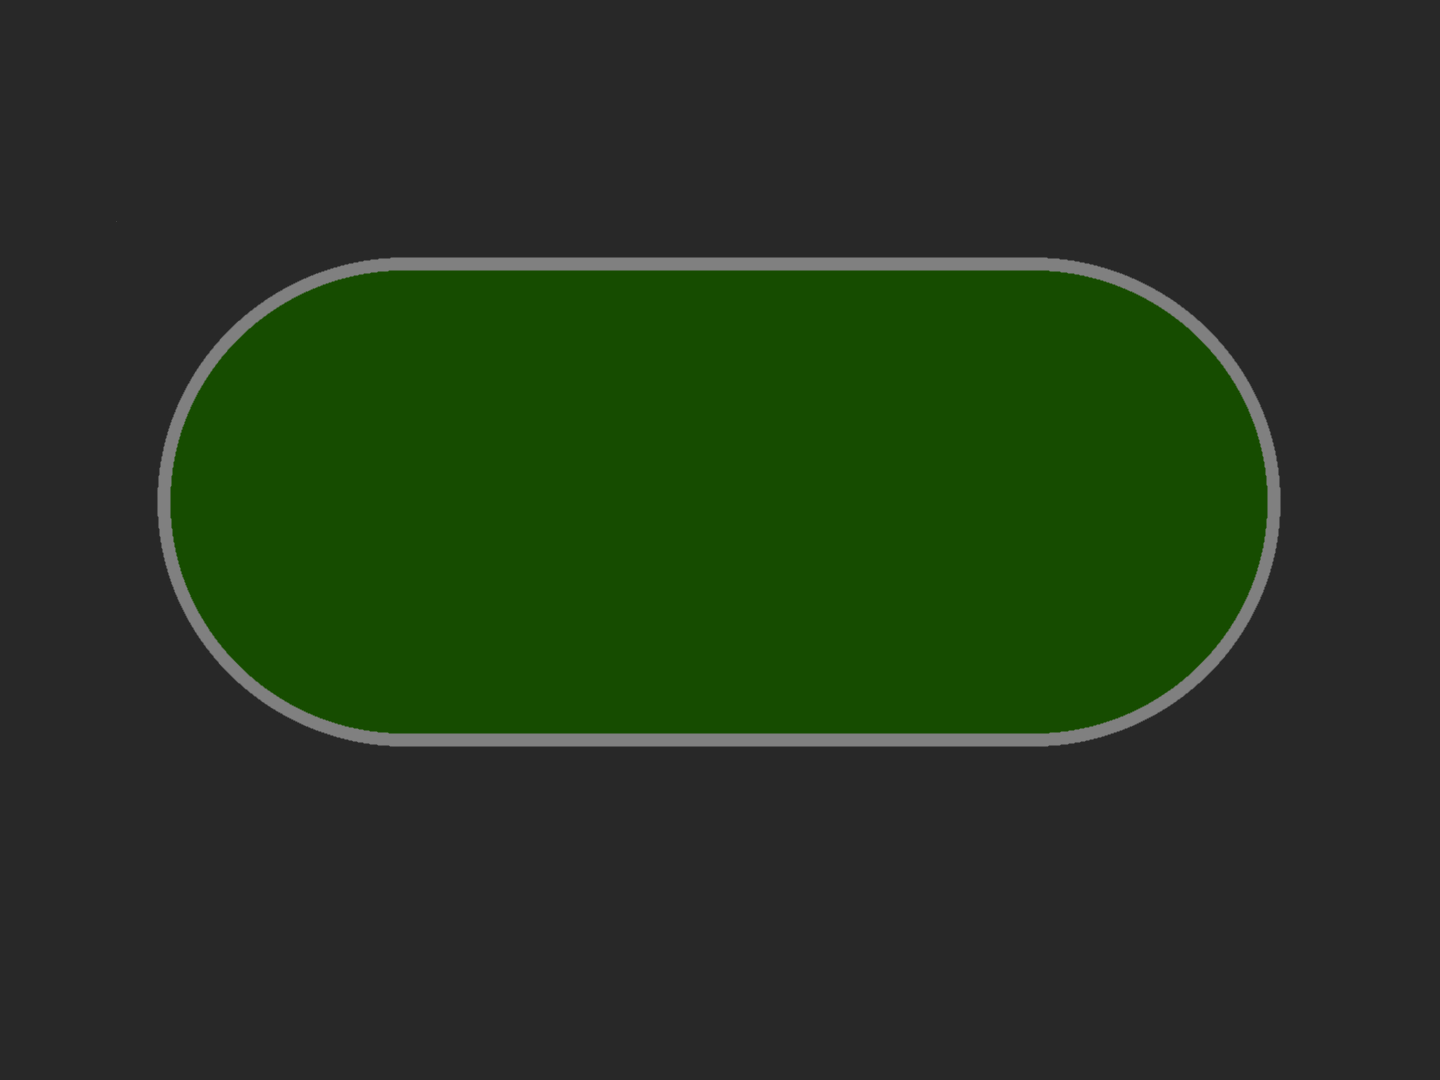
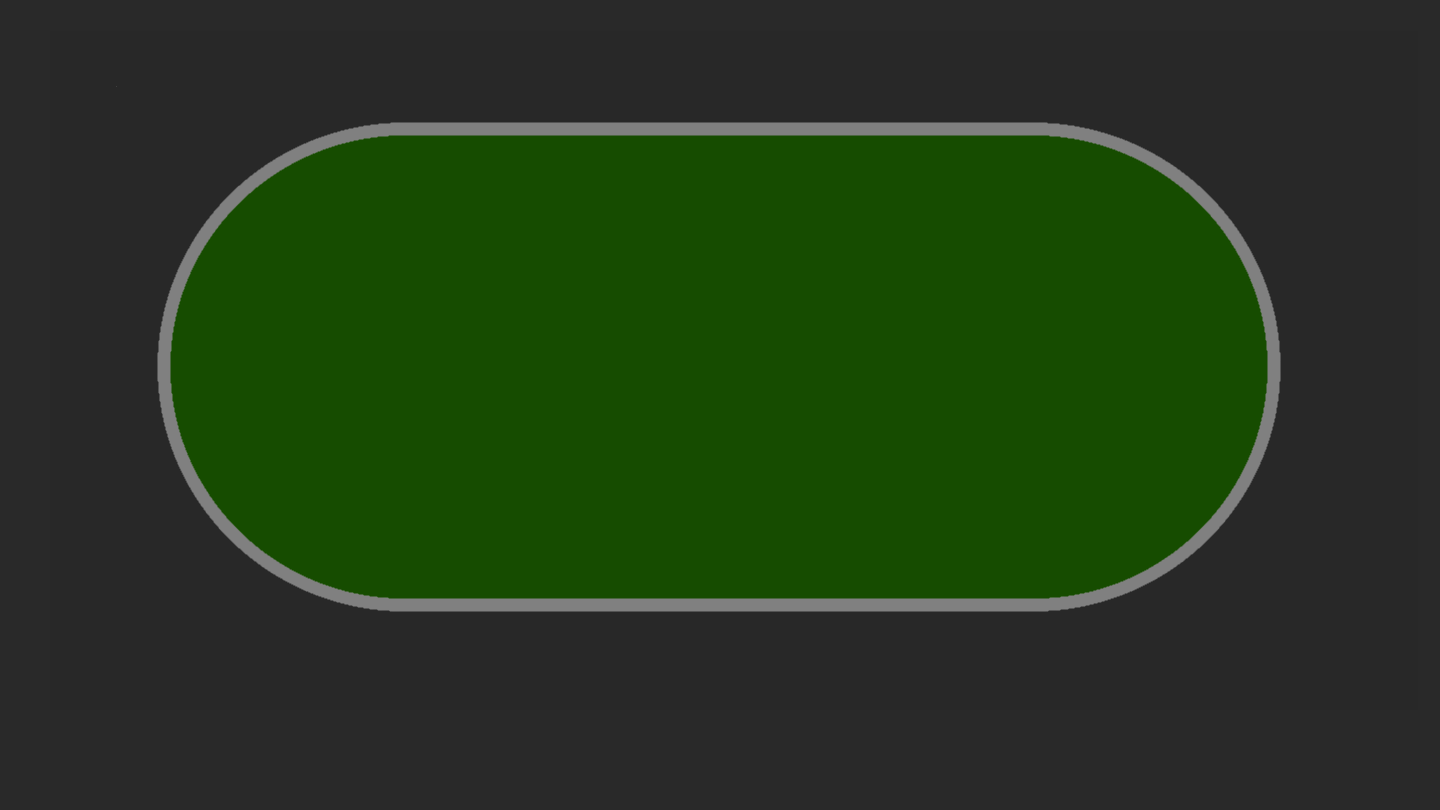
.

Changed region(s): [[0.0938, 0.1235, 0.9062, 0.4321], [0.125, 0.5247, 0.875, 0.7716], [0.0938, 0.5247, 0.125, 0.5556]]

diff --git a/main.py b/main.py
@@ -91,10 +91,11 @@ def main():
     myfont = pygame.font.SysFont('arial', 38)
     myfont2 = pygame.font.SysFont('arial', 20)
     myfont3 = pygame.font.SysFont('arial', 56)
+    myfont4 = pygame.font.SysFont('arial', 28)
 
     ses = requests.Session()
 
-    size = (1440, 1080)
+    size = (1440, 810)
     aspect = size[0] / size[1]
 
     background = pygame.image.load('static/background.png')
@@ -102,6 +103,9 @@ def main():
     button = pygame.image.load('static/button.png')
     cardSmallFront = pygame.image.load('static/card-small-front.png')
     cardBigFront = pygame.image.load('static/card-big-front.png')
+    actionButton = pygame.image.load('static/action-button.png')
+    betSlider = pygame.image.load('static/bet-slider.png')
+    slider = pygame.image.load('static/slider.png')
 
     screen = pygame.display.set_mode(size, pygame.RESIZABLE)
     pygame.display.set_caption("Public-exchange.com")
@@ -125,7 +129,7 @@ def main():
         seatPositions = []
         buttonPositions = []
         moneyPositions = []
-        seats = 5  #result['nrOfSeats']
+        seats = 11  #result['nrOfSeats']
         org = (center[0], center[1] + dist)
 
         for i in range(0, seats):
@@ -186,6 +190,24 @@ def main():
 
         bet = myfont2.render('Total pot: $56.78', True, (192,192,192))
         center_blit(screen, bet, (center[0], center[1]+75-25))
+
+        center_blit(screen, actionButton, (125, 760))
+        fold_button = myfont4.render('FOLD', True, (192,192,192))
+        center_blit(screen, fold_button, (125, 760))
+
+        center_blit(screen, actionButton, (375, 760))
+        call_button = myfont4.render('CALL 100', True, (192,192,192))
+        center_blit(screen, call_button, (375, 760))
+
+        center_blit(screen, actionButton, (625, 760))
+        raise_button = myfont4.render('RAISE 200', True, (192,192,192))
+        center_blit(screen, raise_button, (625, 760))
+
+        center_blit(screen, betSlider, (1095, 760))
+        raise_m = myfont4.render('300', True, (192,192,192))
+        center_blit(screen, raise_m, (845, 760))
+
+        center_blit(screen, slider, (1000, 763))
 
         pygame.display.flip()
         clock.tick(30)
